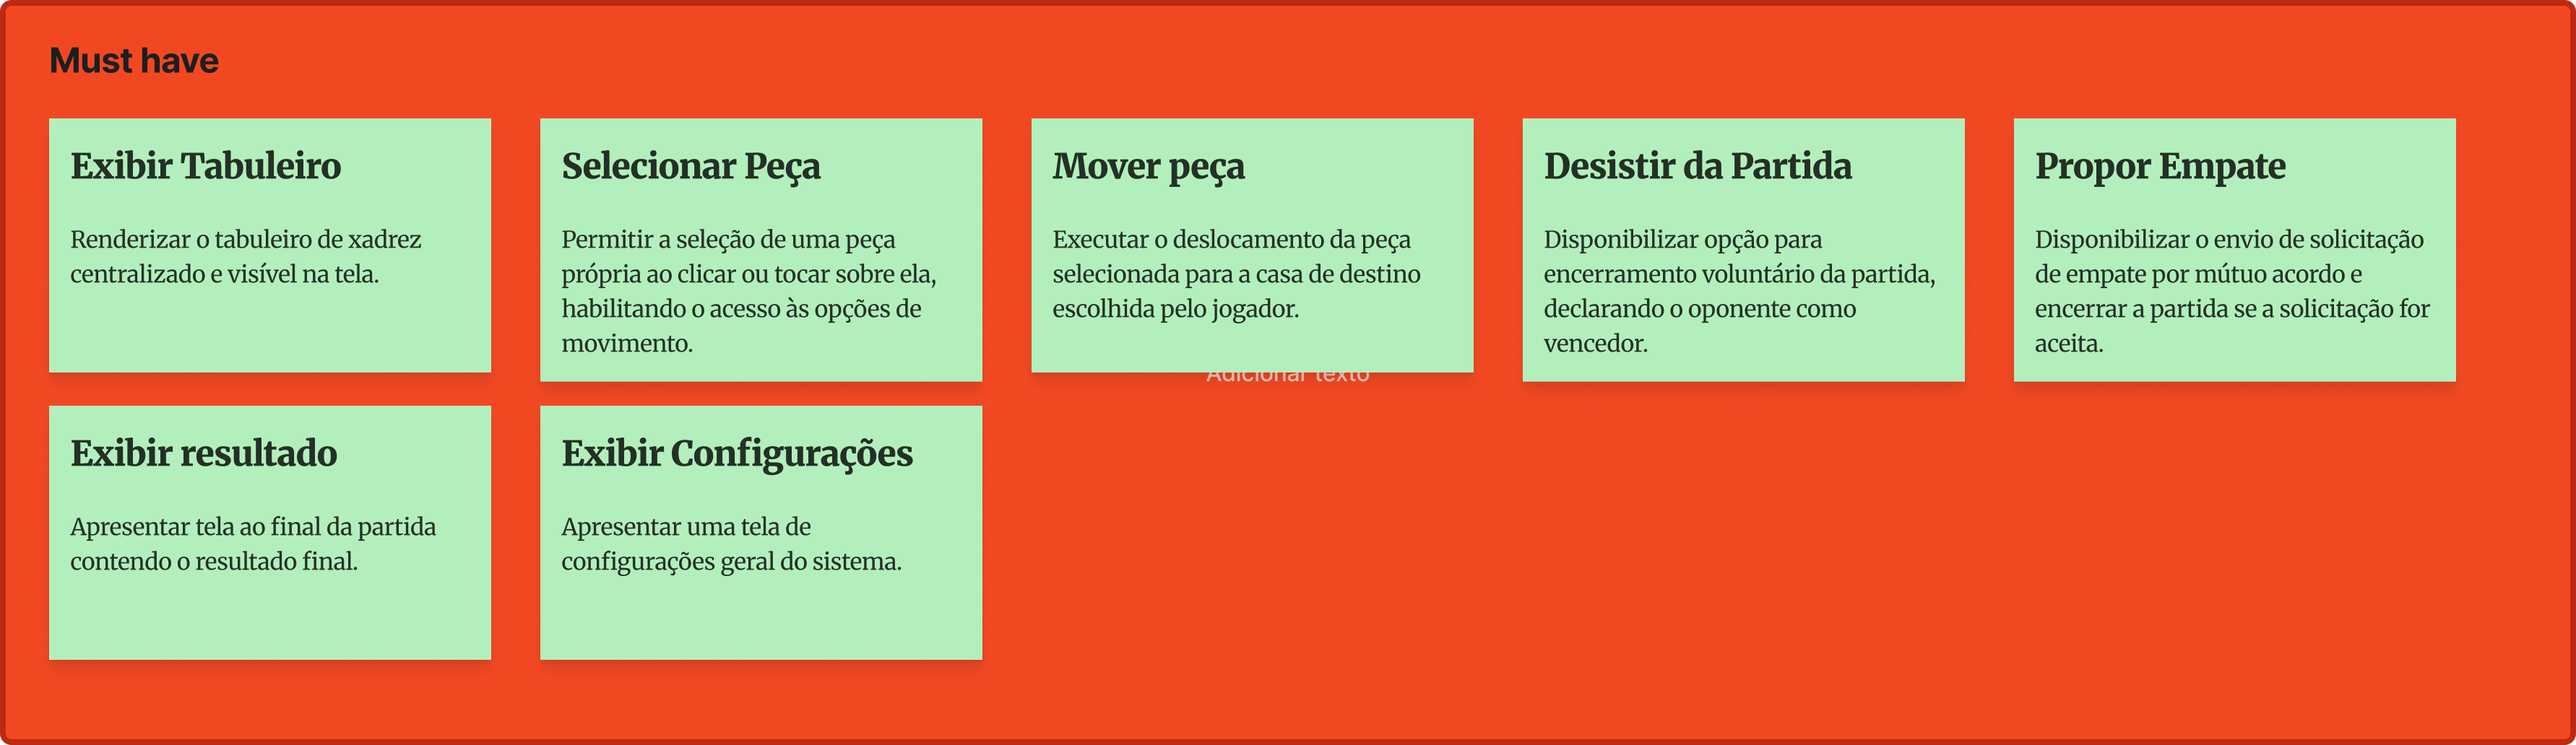
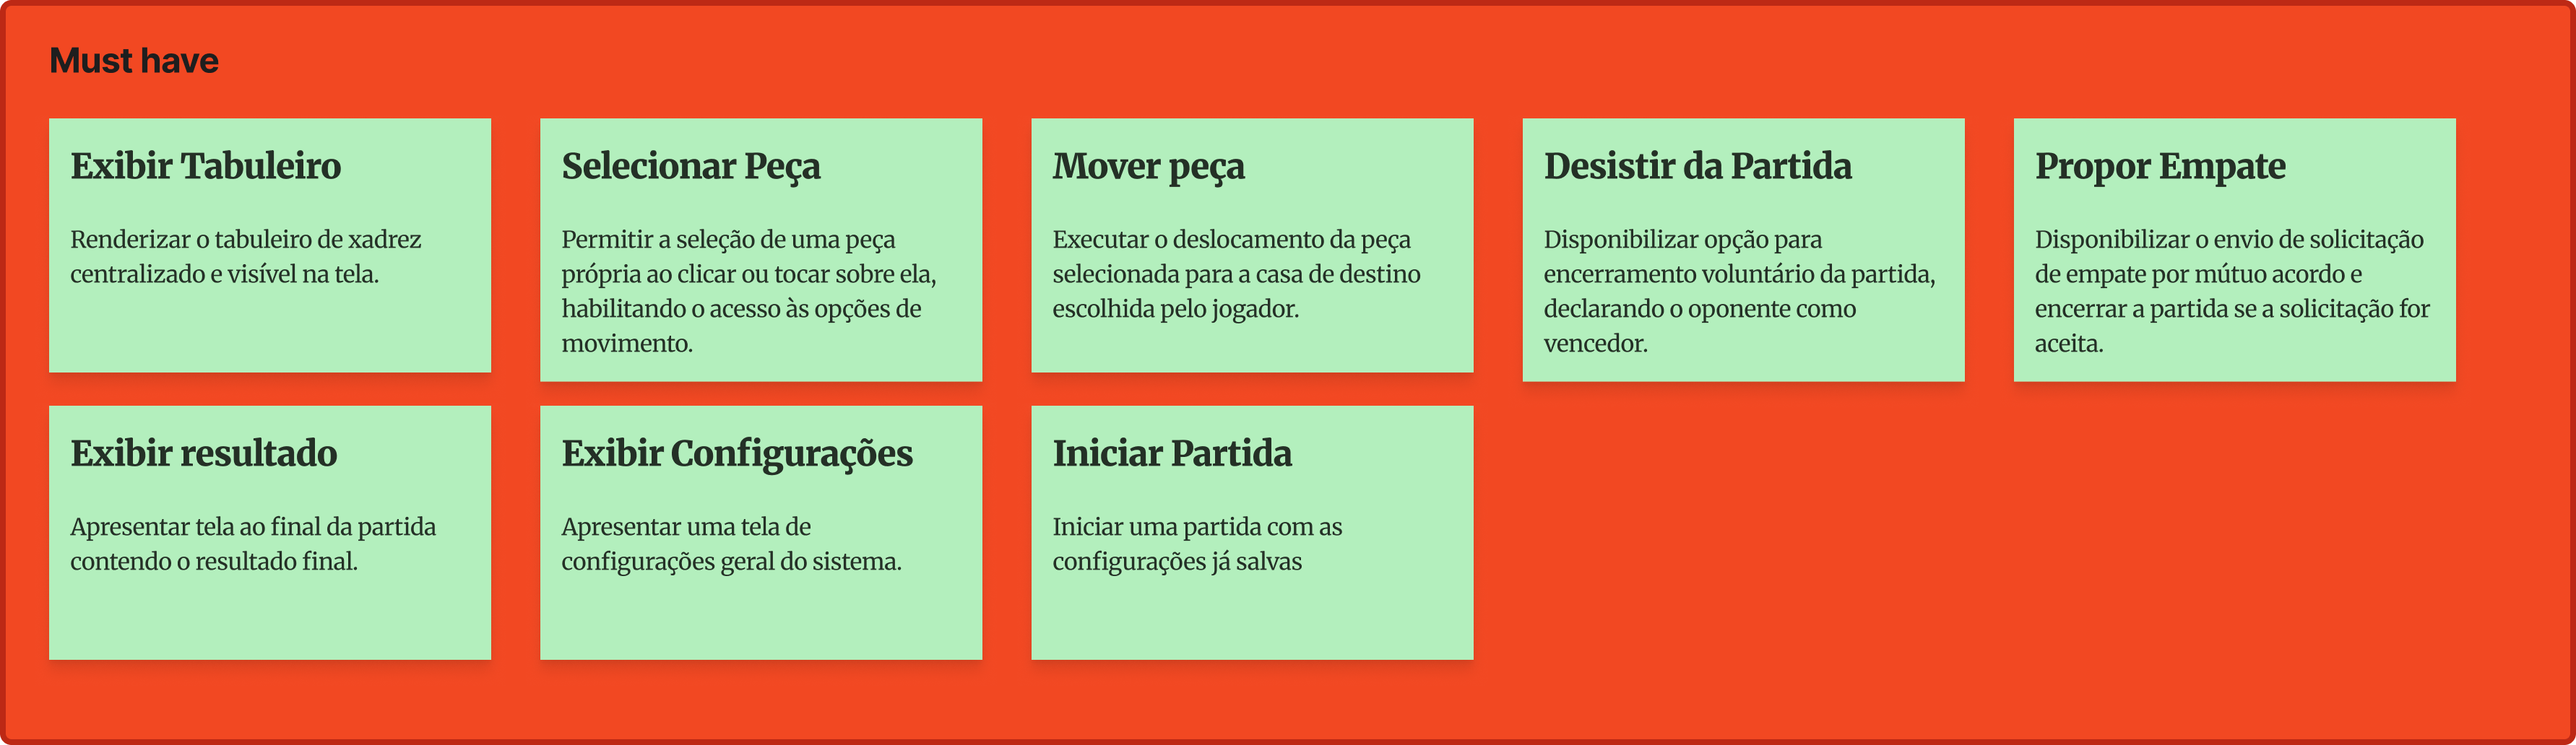
adicionando req 16

Changed region(s): [[0.3735, 0.4961, 0.5914, 0.8992]]

diff --git a/docs/backlog/backlog.md b/docs/backlog/backlog.md
@@ -14,7 +14,8 @@
 | US10 | Exibição do Resultado | Como jogador, quero visualizar o resultado da partida após ela acabar, para entender quem foi o vencedor ou se foi um empate. | RF11 |
 | US11 | Exibição das peças capturadas | Como jogador, quero visualizar as peças que capturei do meu oponente, para ver meu progresso no jogo. | RF13 |
 | US12 | Exibição dos espaços seguros | Como jogador, quero visualizar os espaços seguros que meu rei pode movimentar ao receber xeque, para decidir meu próximo movimento mais rapidamente. | RF14 |
-| US13 | Exibição das configurações | Como usuário, quero acessar uma aba de configurações, para que eu possa personalizar as opções do jogo de forma rápida e centralizada. | RF15 
+| US13 | Exibição das configurações | Como usuário, quero acessar uma aba de configurações, para que eu possa personalizar as opções do jogo de forma rápida e centralizada. | RF15 |
+| US14 | Iniciação da partida | Como jogador, quero poder começar a partida, para que possa jogar o jogo com meu amigo. | RF16 |
 
 ## Figma
 

diff --git a/docs/backlog/US/US14.md b/docs/backlog/US/US14.md
@@ -1,0 +1,29 @@
+# US14 - Iniciação da partida
+
+> Como jogador, quero poder começar a partida, para que possa jogar o jogo com meu amigo.
+
+## Requisito Pai
+
+[RF16 - Iniciar Partida](../../requisitos/requisitos.md)
+
+> Iniciar uma partida com as configurações já salvas.
+
+## Critérios de Aceitação Resumidos
+
+|  ID  | Critério de Aceite | 
+| ---- | ------------------ |
+| CA01 | Criterio de aceite AQUI |
+
+## Critérios Detalhados
+
+### CA01 - CRITERIO
+
+- **Dado**
+- **Quando**
+- **Então**
+
+## Evidencias
+
+### CA01
+
+Imagens aqui quando for feito o sistema e o CA for validado

diff --git a/docs/requisitos/requisitos.md b/docs/requisitos/requisitos.md
@@ -19,6 +19,7 @@ A tabela a seguir apresenta os 16 Requisitos Funcionais do sistema, organizados 
 | **RF13** | Exibir Peças Capturadas | Exibir painel dedicado na interface listando todas as peças capturadas por cada jogador ao longo da partida. |
 | **RF14** | Exibir Espaços Seguros | Destacar as casas seguras para onde o Rei pode se mover caso esteja sob condição de xeque. |
 | **RF15** | Exibir Configurações | Apresentar uma tela de configurações geral do sistema. |
+| **RF16** | Iniciar Partida | Iniciar uma partida com as configurações já salvas. |
 
 ## Figma
 

diff --git a/docs/requisitos/mvp.md b/docs/requisitos/mvp.md
@@ -15,6 +15,7 @@
 | **RF13** | Exibir Peças Capturadas | Should Have | Exibir painel dedicado na interface listando todas as peças capturadas por cada jogador ao longo da partida. |
 | **RF14** | Exibir Espaços Seguros | Should Have | Destacar as casas seguras para onde o Rei pode se mover caso esteja sob condição de xeque. |
 | **RF15** | Exibir Configurações | Must Have | Apresentar uma tela de configurações geral do sistema. |
+| **RF16** | Iniciar Partida | Must Have | Iniciar uma partida com as configurações já salvas. |
 
 # Figma
 

diff --git a/docs/requisitos/moscow.md b/docs/requisitos/moscow.md
@@ -14,6 +14,7 @@ A matriz MoSCoW abaixo prioriza as funcionalidades do sistema com base nos Requi
 | **RF10** | Propor Empate |
 | **RF11** | Exibir Resultado | 
 | **RF15** | Exibir Configurações | 
+| **RF16** | Iniciar Partida | 
 
 ---
 

diff --git a/docs/requisitos/valorEsforco.md b/docs/requisitos/valorEsforco.md
@@ -18,6 +18,7 @@ A distribuição dos 16 Requisitos Funcionais do escopo verde está organizadas 
 | **RF10** | Propor Empate |
 | **RF11** | Exibir Resultado |
 | **RF15** | Exibir Configurações |
+| **RF16** | Iniciar Partida |
 
 ---
 
